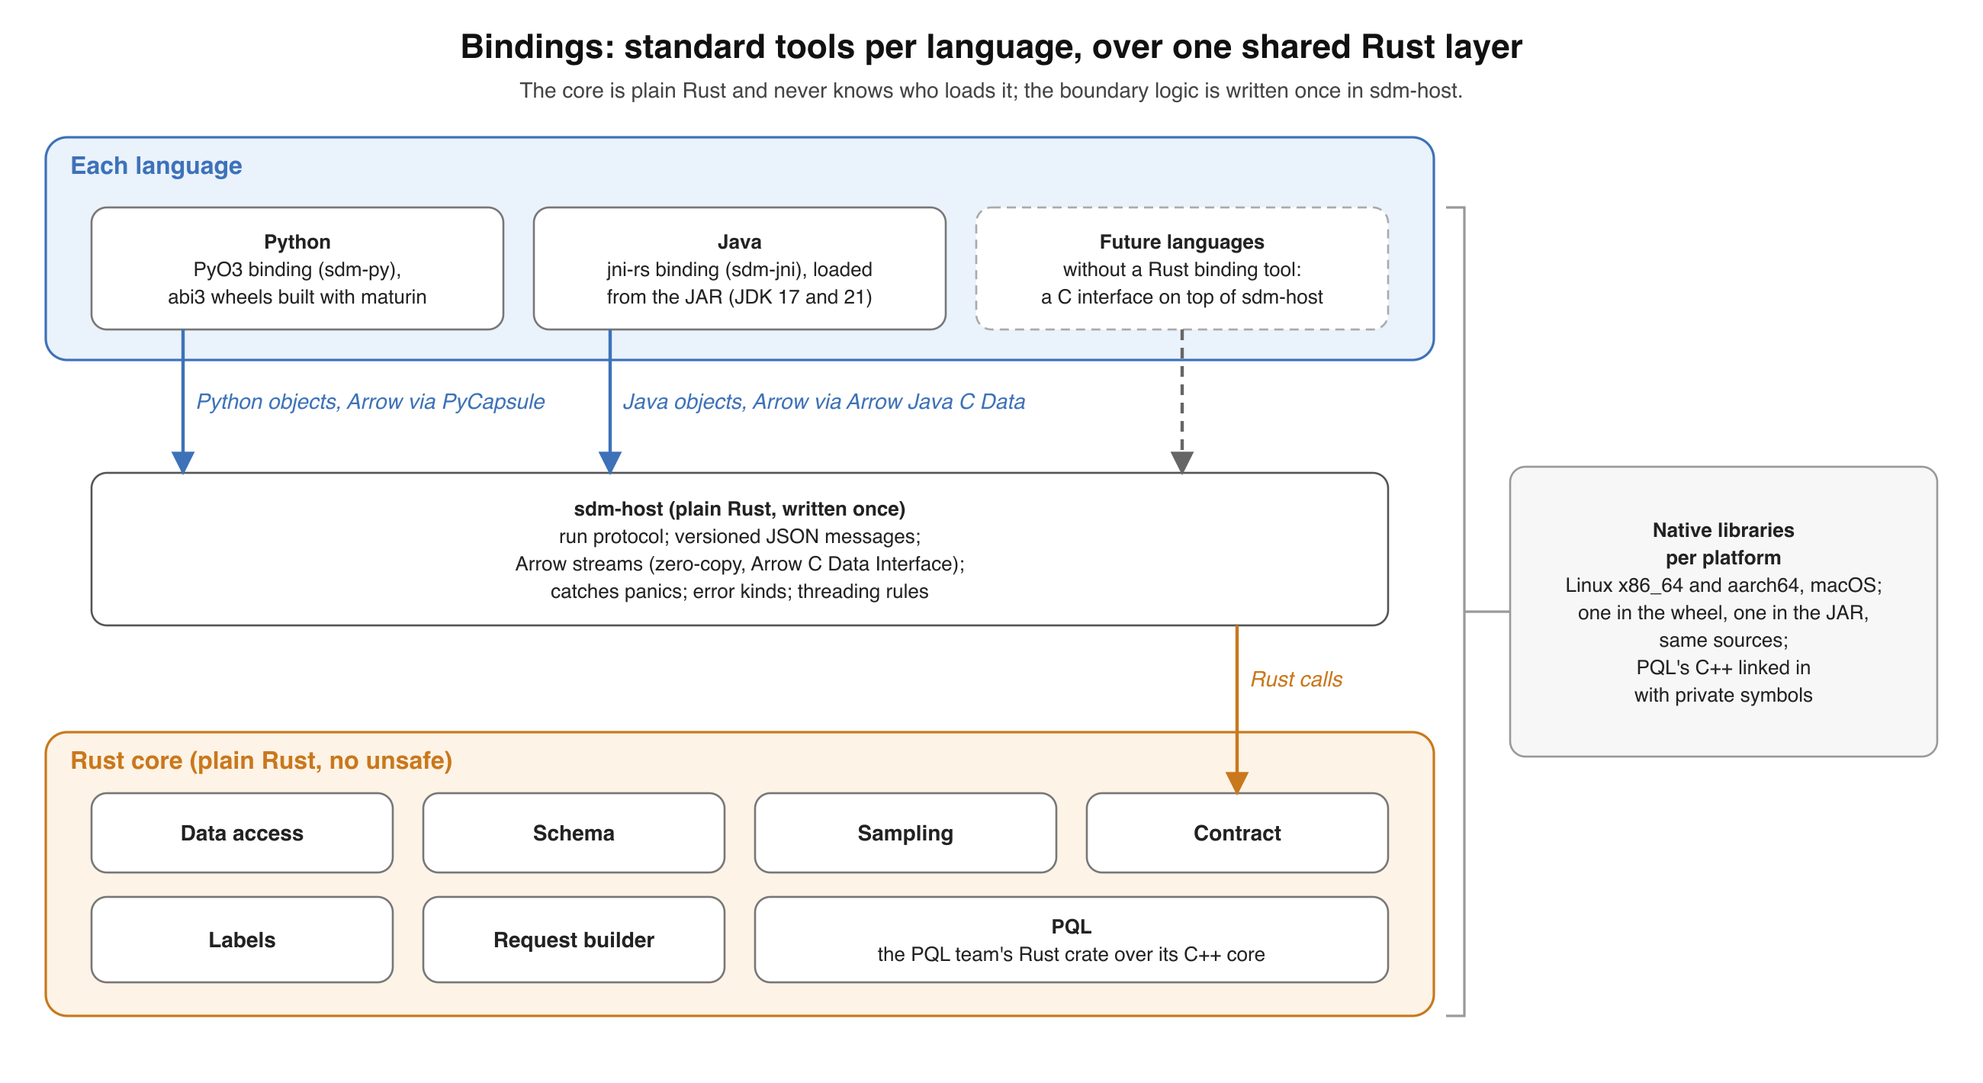
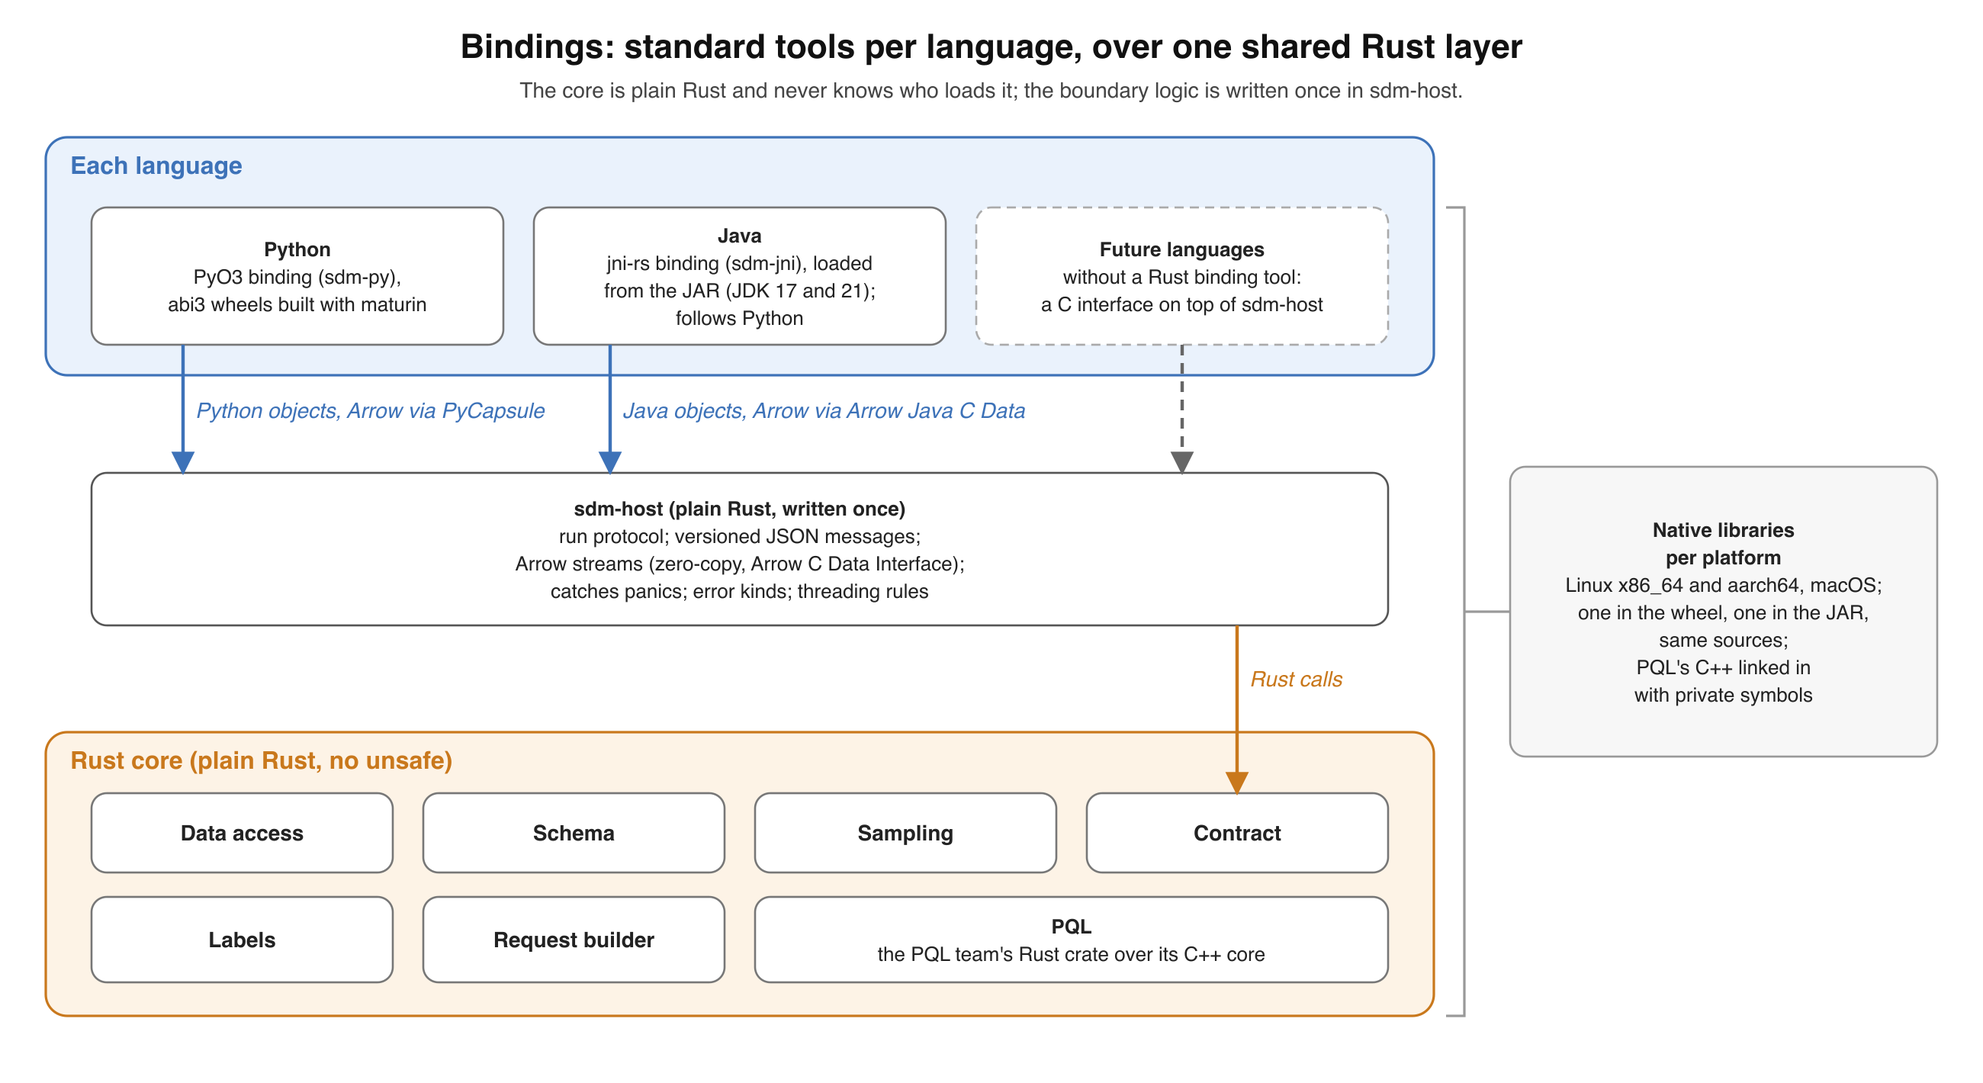
Put Python first in the Rust core plan
Python is the main interface: it leads every slice and sets the order of
the work, and its gates decide when a slice ships. Java follows on the
same contract cases without holding Python back, and the pure-Rust test
host, not Java, proves the core is language-neutral.

Changed region(s): [[0.0312, 0.2169, 0.7165, 0.4028]]

diff --git a/docs/design/rust-core/images/make_diagrams.py b/docs/design/rust-core/images/make_diagrams.py
@@ -109,7 +109,7 @@ def architecture():
 
     # Bands. The layout keeps every vertical arrow clear of the band titles.
     c.band(30, 86, 1570, 204, "Outside sdm-client", GREY_FILL, "#999999", dashed=True)
-    c.band(30, 232, 1570, 416, "Python and Java: every query and network call happens here", BLUE_FILL, BLUE)
+    c.band(30, 232, 1570, 416, "Python (main) and Java: every query and network call happens here", BLUE_FILL, BLUE)
     c.band(30, 556, 1570, 900, "Rust core: shared logic, no database or network access", ORANGE_FILL, ORANGE)
 
     # Outside
@@ -241,11 +241,12 @@ def bindings():
             "The core is plain Rust and never knows who loads it; the boundary logic is written once in sdm-host.")
 
     # Each language
-    c.band(30, 90, 940, 236, "Each language", BLUE_FILL, BLUE)
-    c.box(60, 136, 330, 216, ["Python", "PyO3 binding (sdm-py),", "abi3 wheels built with maturin"], size=13)
-    c.box(350, 136, 620, 216, ["Java", "jni-rs binding (sdm-jni), loaded", "from the JAR (JDK 17 and 21)"],
+    c.band(30, 90, 940, 246, "Each language", BLUE_FILL, BLUE)
+    c.box(60, 136, 330, 226, ["Python", "PyO3 binding (sdm-py),", "abi3 wheels built with maturin"], size=13)
+    c.box(350, 136, 620, 226, ["Java", "jni-rs binding (sdm-jni), loaded", "from the JAR (JDK 17 and 21);",
+                               "follows Python"],
           size=13)
-    c.box(640, 136, 910, 216, ["Future languages", "without a Rust binding tool:", "a C interface on top of sdm-host"],
+    c.box(640, 136, 910, 226, ["Future languages", "without a Rust binding tool:", "a C interface on top of sdm-host"],
           stroke="#aaaaaa", size=13, dashed=True)
 
     # The shared boundary layer
@@ -266,9 +267,9 @@ def bindings():
     c.box(60 + 2 * (w + gap), 588, 910, 644, ["PQL", "the PQL team's Rust crate over its C++ core"], size=13)
 
     # Calls
-    c.arrow([(120, 216), (120, 310)], BLUE, label="Python objects, Arrow via PyCapsule", lx=128, ly=268)
-    c.arrow([(400, 216), (400, 310)], BLUE, label="Java objects, Arrow via Arrow Java C Data", lx=408, ly=268)
-    c.arrow([(775, 216), (775, 310)], GREY, dashed=True)
+    c.arrow([(120, 226), (120, 310)], BLUE, label="Python objects, Arrow via PyCapsule", lx=128, ly=274)
+    c.arrow([(400, 226), (400, 310)], BLUE, label="Java objects, Arrow via Arrow Java C Data", lx=408, ly=274)
+    c.arrow([(775, 226), (775, 310)], GREY, dashed=True)
     c.arrow([(811, 410), (811, 520)], ORANGE, label="Rust calls", lx=819, ly=450)
 
     # What ships: binding, sdm-host and the core, built into a native library per platform
@@ -284,55 +285,57 @@ def bindings():
 
 
 def delivery():
-    c = Canvas(1720, 560)
+    c = Canvas(1720, 590)
     c.title("Delivery: slices through the public API",
             "Each slice goes from the public API down to the core and merges to main at its gate.")
 
-    top, bottom, mid = 148, 288, 218
+    top, bottom, mid = 148, 318, 233
 
-    c.band(245, 106, 1405, 316,
-           "S1 and S2 ship in Python and Java (Java: DuckDB, SQLite, Postgres, Databricks); "
-           "S3's Java scope added later", BLUE_FILL, BLUE)
+    c.band(245, 106, 1405, 346,
+           "Python leads every slice; Java follows on the same contract cases "
+           "(Java: DuckDB, SQLite, Postgres, Databricks)", BLUE_FILL, BLUE)
 
     phases = [
         (60, 230, ["R0 Prepare", "reference environment", "in its own worktree;", "bank the first attempt's",
                    "best candidate;", "one integration branch"], 1),
-        (260, 430, ["R1a Harness", "contract, test runners,", "CI guards;", "S0 PQL validation"], 1),
-        (460, 630, ["R1b Spike", "DuckDB from_source", "to predict in", "both languages"], 1),
-        (820, 990, ["R2", "S1 offline warehouses", "DuckDB, SQLite, Postgres;", "sample Java",
-                    "data provider"], 2),
-        (1020, 1190, ["R3", "S2 live warehouses", "Databricks, Snowflake,", "Lakebase", "(Java: Databricks);",
-                      "Python switches", "warehouse paths"], 2),
+        (260, 430, ["R1a Harness", "contract, test runners,", "CI guards;", "S0 PQL validation",
+                    "in Python, running in Java"], 1),
+        (460, 630, ["R1b Spike", "DuckDB from_source", "to predict in Python", "and a pure-Rust",
+                    "test host"], 1),
+        (820, 990, ["R2", "S1 offline warehouses", "DuckDB, SQLite, Postgres;",
+                    "sample data provider"], 2),
+        (1020, 1190, ["R3", "S2 live warehouses", "Databricks, Snowflake,", "Lakebase;",
+                      "Python switches", "warehouse paths;", "Java follows", "on Databricks"], 2),
         (1220, 1390, ["R4", "S3", "in-memory frames,", "ranking, forecasting,", "sessions"], 2),
         (1450, 1620, ["R5 Release", "PQL crate,", "delete old engine"], 1),
     ]
     for x1, x2, lines, bold in phases:
         c.box(x1, top, x2, bottom, lines, size=13, bold=bold)
 
-    c.box(655, 173, 795, 263, ["owner decides", "go / no-go"], shape="diamond", size=12, bold=0)
-    c.text_lines(725, 284, ["go: merge R1a", "and R1b to main"], size=12, bold=0)
+    c.box(655, 188, 795, 278, ["owner decides", "go / no-go"], shape="diamond", size=12, bold=0)
+    c.text_lines(725, 302, ["go: merge R1a", "and R1b to main"], size=12, bold=0)
 
     # Sequence arrows
     for x1, x2 in ((230, 260), (430, 460), (630, 655), (795, 820), (990, 1020), (1190, 1220), (1390, 1450)):
         c.arrow([(x1, mid), (x2, mid)], GREY)
 
     # Merges to main: after the spike's go, after each slice gate, and at release
-    main_y = 364
+    main_y = 394
     c.out.append(f'<line x1="60" y1="{main_y}" x2="1620" y2="{main_y}" stroke="{GREY}" stroke-width="4"/>')
     c.note(60, main_y - 10, "main", size=14, bold=True, color=GREY)
     for x, y, label in ((807, mid, "merge to main"), (1005, mid, "merge to main"), (1205, mid, "merge to main"),
                         (1420, mid, "merge to main"), (1535, bottom, "merge to main (release)")):
         c.arrow([(x, y), (x, main_y - 3)], ORANGE, width=2)
         c.out.append(f'<circle cx="{x}" cy="{y}" r="4.5" fill="{ORANGE}"/>')
-        c.note(x + 7, 342, label, size=12, color=ORANGE)
+        c.note(x + 7, 372, label, size=12, color=ORANGE)
 
     # Checks strip
-    c.band(30, 400, 1690, 530, "Checks that run all along", GREY_FILL, "#999999")
-    c.box(60, 440, 590, 510, ["Every PR", "unit, boundary guards, contract subset,",
+    c.band(30, 430, 1690, 560, "Checks that run all along", GREY_FILL, "#999999")
+    c.box(60, 470, 590, 540, ["Every PR", "unit, boundary guards, contract subset,",
                               "SQL goldens, provider kit, conversion tables"], size=13)
-    c.box(620, 440, 1120, 510, ["Nightly", "full contract corpus, differential vs old release,", "performance"],
+    c.box(620, 470, 1120, 540, ["Nightly", "full contract corpus, differential vs old release,", "performance"],
           size=13)
-    c.box(1150, 440, 1660, 510, ["Weekly and before release", "weekly: live matrix",
+    c.box(1150, 470, 1660, 540, ["Weekly and before release", "weekly: live matrix",
                                  "before release: all layers, packaging and safety"], size=13)
 
     c.save("delivery.svg")

diff --git a/docs/design/rust-core/migration-plan.md b/docs/design/rust-core/migration-plan.md
@@ -19,7 +19,7 @@ What changes is where the line between the core and each language sits, how data
 | SQL dialects inside the core | Data access is pluggable: the core emits typed data requests; SQL dialects are one built-in provider, and the layer can be swapped or a host can answer with its own provider (for example for Pyramid) | Agreed when the proposal was posted, then lost: the first attempt hard-coded the dialects |
 | PQL: a hand-written port | One PQL implementation, the PQL team's C++ core, used through its published Rust crate | Several PQL copies already drift |
 | Port the client logic | Port defined algorithms; use Rust libraries for general data work; keep presentation and object behavior in the host | 27-29% of the Rust re-created libraries by hand |
-| Python first, then Java | Each slice ships in Python and Java together, warehouse path first | Python assumptions surfaced only at the end |
+| Python first, Java much later | Python leads every slice; Java runs the same contract cases from the start, so Python assumptions in the core surface early, but never holds Python back | Python assumptions surfaced only at the end |
 | Module-by-module phases, merged at the end | Vertical slices through the public API, each merged to `main` at its gate | Modules passed alone and broke together; nothing merged |
 
 Unchanged: Rust, no I/O in the core, the run loop that asks the host to fetch data or call the model, official database drivers per language, and per-language packaging.
@@ -28,19 +28,21 @@ Unchanged: Rust, no I/O in the core, the run loop that asks the host to fetch da
 
 The owner made these before any code:
 
-1. **Java:** the first Java consumer is a team using Pyramid, which brings its own data layer and uses none of the data sources this client supports.
-   The Java binding still gets basic support for the offline backends and Databricks, proven working on Databricks.
-   It loads the core as a native library; WebAssembly is out, because its size limits are too restrictive.
+1. **Python comes first.** Python is the main interface and matters most: no regressions for Python users, and Python's needs set the order of the work.
+   Java is a second binding on the same core, built so the core stays language-neutral, never at Python's expense.
 2. **Scope:** Python supports every backend it supports today (Databricks, Snowflake, Lakebase, Postgres, SQLite, DuckDB and in-memory frames).
    Java starts with DuckDB, SQLite, Postgres and Databricks.
-3. **Data layer:** Pyramid is not in scope, but the data layer must be switchable: a team given access to this repository should be able to replace it, for example to work with Pyramid, without touching the rest of the core.
-4. **PQL:** the PQL team owns one C++ core and publishes it as a Rust crate and a Python package; this client's core uses the Rust crate, with the hand-written parser as a stopgap (section 3).
-5. **Regressions:** refusing an input the old Python client accepted is a regression.
+3. **Regressions:** refusing an input the old Python client accepted is a regression.
    Java on Snowflake is not prioritized, so it is not held to this yet.
-6. **Python quirks:** the register (section 5) follows common sense, with a small bias towards today's Python behavior but without catering to its accidents.
-7. **Reference environment:** the old release is installed locally in its own worktree and environment, with its Python, pandas, NumPy, PyArrow and torch versions recorded; it is the oracle the tests compare against.
-8. **No calendar budget and no time estimates:** the work is paced by its gates, not by dates, and dates must not change the quality of the work.
-9. **Ownership:** this team owns the core long term; that does not change how it is built.
+4. **Python quirks:** the register (section 5) follows common sense, with a small bias towards today's Python behavior but without catering to its accidents.
+5. **Reference environment:** the old release is installed locally in its own worktree and environment, with its Python, pandas, NumPy, PyArrow and torch versions recorded; it is the oracle the tests compare against.
+6. **PQL:** the PQL team owns one C++ core and publishes it as a Rust crate and a Python package; this client's core uses the Rust crate, with the hand-written parser as a stopgap (section 3).
+7. **Data layer:** the data layer must be switchable: a team given access to this repository should be able to replace it, for example to work with Pyramid, without touching the rest of the core.
+   A Pyramid provider itself is not in scope.
+8. **Java:** the first Java consumer is a team using Pyramid, which brings its own data layer.
+   Java gets basic support for the offline backends and Databricks, proven working on Databricks, and loads the core as a native library; WebAssembly is out, because its size limits are too restrictive.
+9. **No calendar budget and no time estimates:** the work is paced by its gates, not by dates, and dates must not change the quality of the work.
+10. **Ownership:** this team owns the core long term; that does not change how it is built.
 
 Still to agree with the PQL team: one PQL dialect, the versioned validated-query format, the conformance suite, platform builds, and when the Rust crate ships.
 
@@ -188,9 +190,9 @@ On the Python side, pandas and pyarrow stay as host dependencies, and the old en
 
 | Slice | Public path | Languages |
 |---|---|---|
-| S0 | PQL validation | Python and Java |
-| S1 | `Schema.from_source` → `materialize` → `predict` on DuckDB, SQLite and Postgres, offline; a sample custom data provider, written in Java, passes the conformance kit | Python and Java |
-| S2 | The same live on Databricks (with a metric view), Snowflake (with a semantic view) and Lakebase; the Databricks job matrix across runtimes; Python and Java agree on the same Databricks data | Python on all three; Java on Databricks |
+| S0 | PQL validation | Python; Java follows |
+| S1 | `Schema.from_source` → `materialize` → `predict` on DuckDB, SQLite and Postgres, offline; a sample custom data provider passes the conformance kit | Python; Java follows |
+| S2 | The same live on Databricks (with a metric view), Snowflake (with a semantic view) and Lakebase; the Databricks job matrix across runtimes; Python and Java agree on the same Databricks data | Python on all three; Java follows on Databricks |
 | S3 | In-memory frames, ranking, forecasting, link prediction, sessions, tabular requests | Python; Java as the owner adds scope |
 
 A path is one public operation with one input mode on one backend (for example `predict` of a regression query on Snowflake), and one routing boundary chooses the old implementation or the core for each path.
@@ -198,7 +200,7 @@ Python switches a path only after its slice passes all its gates, live ones incl
 R0 maps every Databricks job in the matrix to its paths, so S2 includes what its jobs need.
 Old paths are deleted in R5, and the oracle (section 6) stays available after that.
 Each slice gate merges to `main`.
-If the Java binding blocks a slice, the slice can ship in Python first; Java keeps running the contract corpus and catches up at the next gate.
+Python sets the pace: a slice ships for Python when its Python gates pass, and Java follows on the same contract cases without holding it back.
 
 ## 5. The quirk register
 
@@ -247,7 +249,7 @@ Each needs its own decision, not a blanket rule: answers that differ between pan
 | Gate | Passes when |
 |---|---|
 | Merge a change | L0, L1, L4, L5 and the L2 subset green; the ratchet holds; a type or conversion fix comes with a public reproduction that failed first |
-| Slice done (merges to `main`) | The full L2 for the slice green in both languages; L3 on the agreed seed sets with no unexplained divergence; every difference has an approved register entry; for S2, L6 green for its scenarios |
+| Slice done (merges to `main`) | The full L2 for the slice green in Python (Java must be green for its own scope before it ships that slice); L3 on the agreed seed sets with no unexplained divergence; every difference has an approved register entry; for S2, L6 green for its scenarios |
 | Python switch for a path | Its slice done; L6 green for it; the Databricks job matrix equal to the baseline; L7 within its limits |
 | Release | Every layer green on the release commit, including L6 and the job matrix re-run after the old code is deleted; the existing Python test suites green; live test resources cleaned up |
 
@@ -256,8 +258,8 @@ Each needs its own decision, not a blanket rule: answers that differ between pan
 | Phase | Work | Exit |
 |---|---|---|
 | R0 | Build the reference environment (decision 7) in its own worktree; record the accepted text-date formats and inference rules; agree the PQL crate's release milestone with the PQL team; verify branch protection, CI and approval identities; push the first attempt's best candidate as a named branch and run CI once, as a fallback; archive the rest; one integration branch | Decisions and dates written down | 1 day |
-| R1a | `sdm-contract`, `sdm-testkit`, L0 guards, L2 runners for Python, Java and the oracle, CI tiers | S0 green in both languages; the runners fail on seeded faults |
-| R1b | Spike, fixed in scope: DuckDB `from_source` → `materialize` → `predict` → result through the new contract and the data provider interface in both languages, and the same path through a minimal non-SQL test provider, against a scripted model endpoint; the text-date rules recorded in R0 checked against the oracle | Matches the oracle on inferred types, keys, time columns, data requests and SQL, payloads, results, warnings and refusals, over the first attempt's column-type cases; the owner decides go or no-go (go: R1a and R1b merge to `main`; no-go: repair the first attempt in place, or stop) | 3 days, hard stop |
+| R1a | `sdm-contract`, `sdm-testkit`, L0 guards, L2 runners for Python, Java and the oracle, CI tiers | S0 green in Python, and running in Java; the runners fail on seeded faults |
+| R1b | Spike, fixed in scope: DuckDB `from_source` → `materialize` → `predict` → result through the new contract and the data provider interface in Python and through the pure-Rust test host (which shows the contract needs nothing from Python), and the same path through a minimal non-SQL test provider, against a scripted model endpoint; the text-date rules recorded in R0 checked against the oracle | Matches the oracle on inferred types, keys, time columns, data requests and SQL, payloads, results, warnings and refusals, over the first attempt's column-type cases; the owner decides go or no-go (go: R1a and R1b merge to `main`; no-go: repair the first attempt in place, or stop) | 3 days, hard stop |
 | R2 | S1, moving only the code S1 needs off the Python value model and onto the contract; the provider conformance kit; the time-library and dataframe-engine comparisons | Slice gate |
 | R3 | S2 and the Python switch for warehouse paths | Switch gate |
 | R4 | S3, moving the rest of the code as its paths need it | Slice gate and switch gate |
@@ -283,7 +285,7 @@ Each needs its own decision, not a blanket rule: answers that differ between pan
 - a check failing twice the same way changes method, never adds a phase;
 - after two fix rounds on the same divergence, the owner chooses between repairing it, deferring the slice with the old path unchanged, and approving a named behavior change; nothing becomes an accepted refusal automatically;
 - three live failures for non-product reasons stop live work;
-- if S1 can't go green in both languages, the owner chooses the next step;
+- if S1 can't go green for Python, the owner chooses the next step;
 - while a blocking question waits for the owner, work narrows to the current slice; silence never authorizes going on.
 
 ## 10. Risks
@@ -295,6 +297,6 @@ Each needs its own decision, not a blanket rule: answers that differ between pan
 | The C++ PQL core complicates every build and can crash across the boundary | Ask the PQL team for a C interface that never lets exceptions escape, static libraries per platform built for manylinux with private symbols, matching crate and PyPI releases, no aborts or console output, a recursion limit, and the conformance suite in their CI; load and crash tests in L8 |
 | A native library builds but doesn't load on some platform | L8 installs the real artifacts in clean containers for every platform |
 | The Java consumer's environment disallows the needed runtime flags | Confirm `--enable-native-access` and Arrow Java's flag with the consumer before Java packaging |
-| A team swapping the data layer for Pyramid finds the interface insufficient | The interface is documented, a Java sample provider proves it in S1, and the conformance kit defines what a replacement must do |
+| A team swapping the data layer for Pyramid finds the interface insufficient | The interface is documented, a sample provider proves it in S1, and the conformance kit defines what a replacement must do |
 | Host conversion tables drift between Python and Java | L5 checks both languages convert the same table to the same Arrow types |
 | Process grows faster than product again | Rules enforced by CI and the owner, not by the executor; new harness tooling needs approval |
